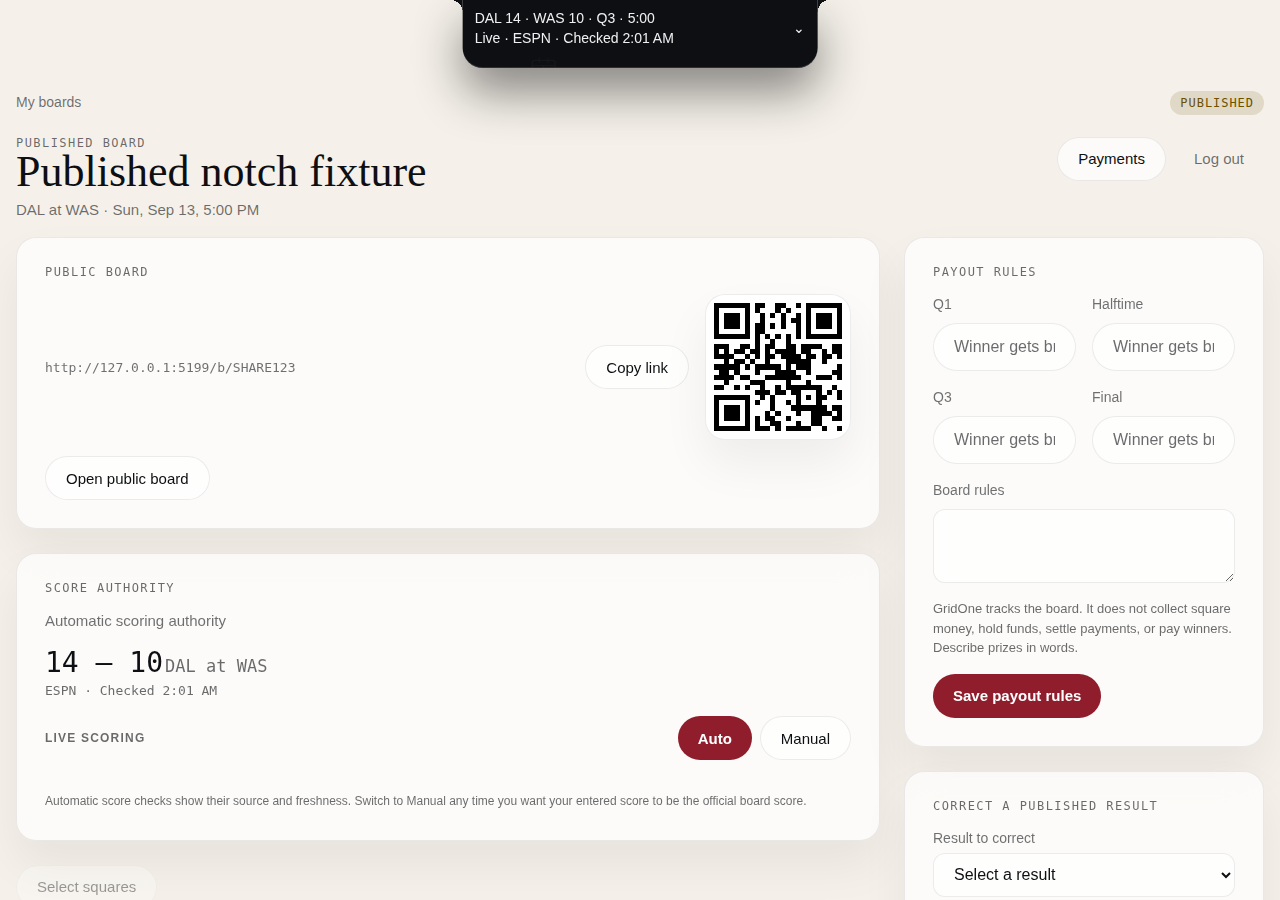
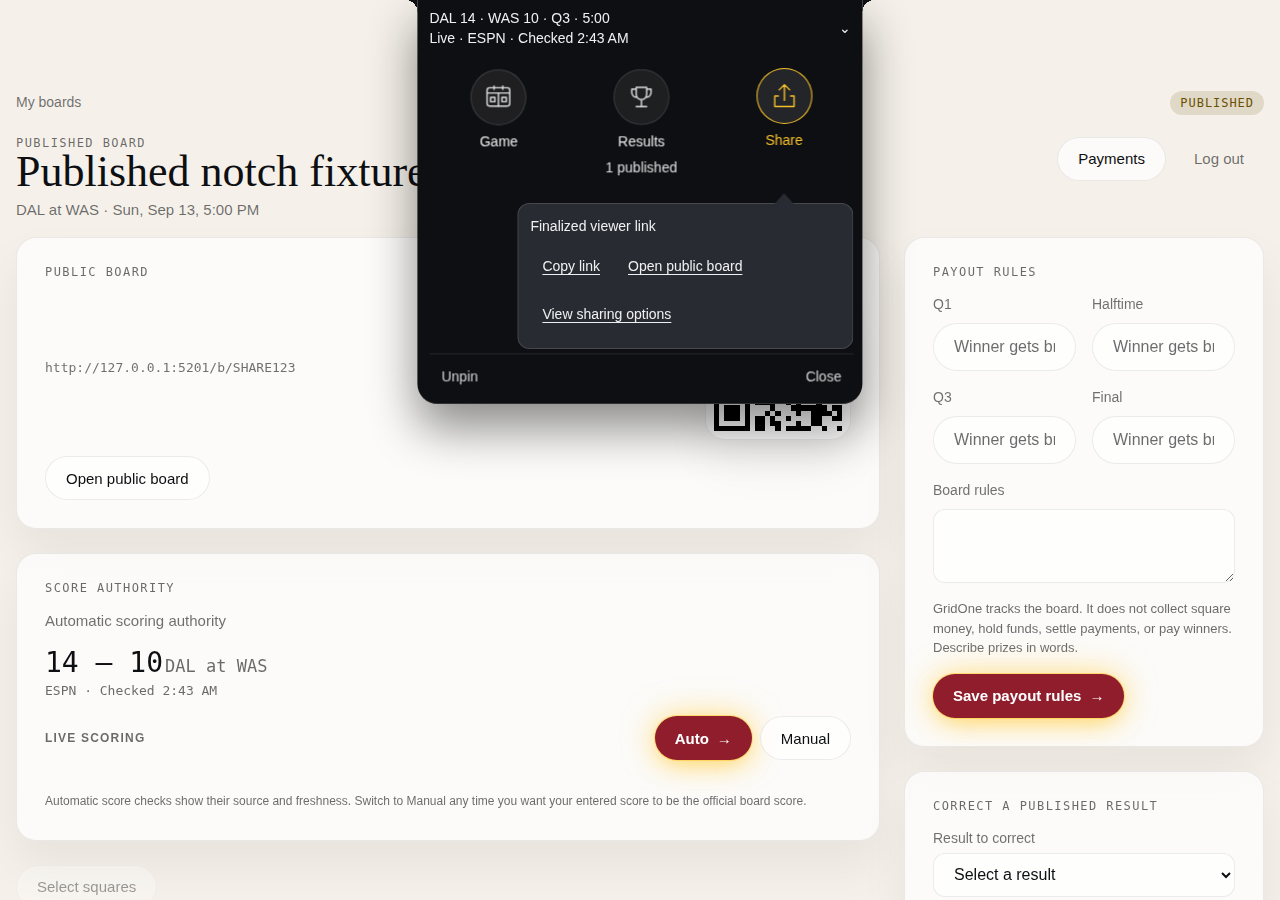
docs: record landing on origin/main and the guest-link overlap
Claude-Session: https://claude.ai/code/session_01QxtxVkKHKrbKqyG6bLut3e

Changed region(s): [[0.3125, 0.0, 0.6875, 0.4978], [0.7188, 0.7156, 0.9062, 0.84], [0.5, 0.7778, 0.5938, 0.8711]]

diff --git a/docs/REFACTOR_LOG.md b/docs/REFACTOR_LOG.md
@@ -881,3 +881,9 @@ Anthony approved commit, push and deployment of the notch-only slice. Release pr
 - **GREEN:** `npx tsc --noEmit` pass; `npm run test:unit` 122 files, 846 tests pass; `npm run build` pass; `npm run design:lint` pass.
 - **Browser:** chromium run in a cloud copy without `.env.local` gave 78 passed and 50 failed. The same run on untouched `9e73acb` gave 49 failures, all in that set of 50. The one extra failure (demo identity text) was fixed, and viewer, smoke, homepage and demo specs rerun at 26 passed. The shared failures are organizer and auth flows that need local env. Rerun the full suite on the Mac with `.env.local` before merging.
 - **Landed on main (2026-09-23):** applied onto the committed scoring-recovery work. Kept the approved photo-import Beta and review sentences exactly. Tightened the upgrade line to "Your free board is used. $9.99 covers up to 5 boards this season, counting your first. It doesn’t reset after a game." With the pinned Playwright env, chromium ran 126 passed / 6 failed. After updating 5 copy expectations, those reran green (8/8). The remaining failure, "representative public controls have visible focus", also fails on the prior commit and is pre-existing.
+
+## 2026-09-23 — Landing the UX pass on current origin/main
+
+- The local checkout was 7 commits behind origin/main, which already shipped scoped guest claim links and family buyer links (migrations 029/030). The Sep 17 working-tree changes and the UX copy pass were rebased onto `8190985`. Conflicts were resolved by keeping origin's new layout and motion and reapplying the plain-language copy: hero money line, organizer, score, pricing, family access, sales availability, viewer island.
+- A parallel "seller links" implementation (its own migration 029) duplicated the shipped guest links. It was not landed, and it stays on branch `claude/seller-links-simple` for reference. The hero focus-ring fix was dropped because origin's redesign removed the offending rule.
+- Gates on the rebased tree: `npx tsc --noEmit` pass; `npm run test:unit` 136 files / 986 tests; `npm run test:integration` 13 files / 97 passed / 1 skipped; build and design lint pass; chromium 142 passed / 2 failed. Both failures reproduce on untouched origin/main `8190985`: an axe color-contrast finding on the hero CTA (sampled mid-entrance: #0e0f12 on #0e0c04) and the viewer C1 first-viewport ordering check. They are pre-existing and were left for a focused follow-up.

diff --git a/tasks/ux-friction-brief-2026-09-23.md b/tasks/ux-friction-brief-2026-09-23.md
@@ -3,7 +3,7 @@
 Date: September 23, 2026
 Owner: Anthony Mora
 Source: a walkthrough of getgridone.com at phone size, a read of the repo on `main` (9e73acb), and a question-and-answer session with Anthony.
-Status: Brief. The no-schema slices (S1 to S4) are being built on branch `claude/ux-friction-pass` in `.worktrees/ux-friction-pass`. Nothing is committed, pushed, migrated, or deployed. Slices S5 to S7 need Anthony's approval first because they change the database.
+Status (updated 2026-09-23): S1 to S4 are committed on `main`, rebased onto origin/main `8190985`. **S6 turned out to already exist.** origin/main shipped scoped guest claim links on Sep 20 and 21 (`029_guest_invites.sql`, `030_family_guest_links.sql`, `/g/...` guest pages, and a family "public buyer link"). The local checkout was 7 commits behind, so it didn't show. A simpler parallel version was built and tested, then kept off `main` on branch `claude/seller-links-simple` so there aren't two claim systems. The next step is Anthony's call: simplify the shipped guest flow (holds, claim codes, the Available-first rule, and the settings-heavy organizer card) and give its copy the same plain-language pass. S7 needed no change. S5 is not started. Nothing is pushed, migrated, or deployed.
 
 ---
 
